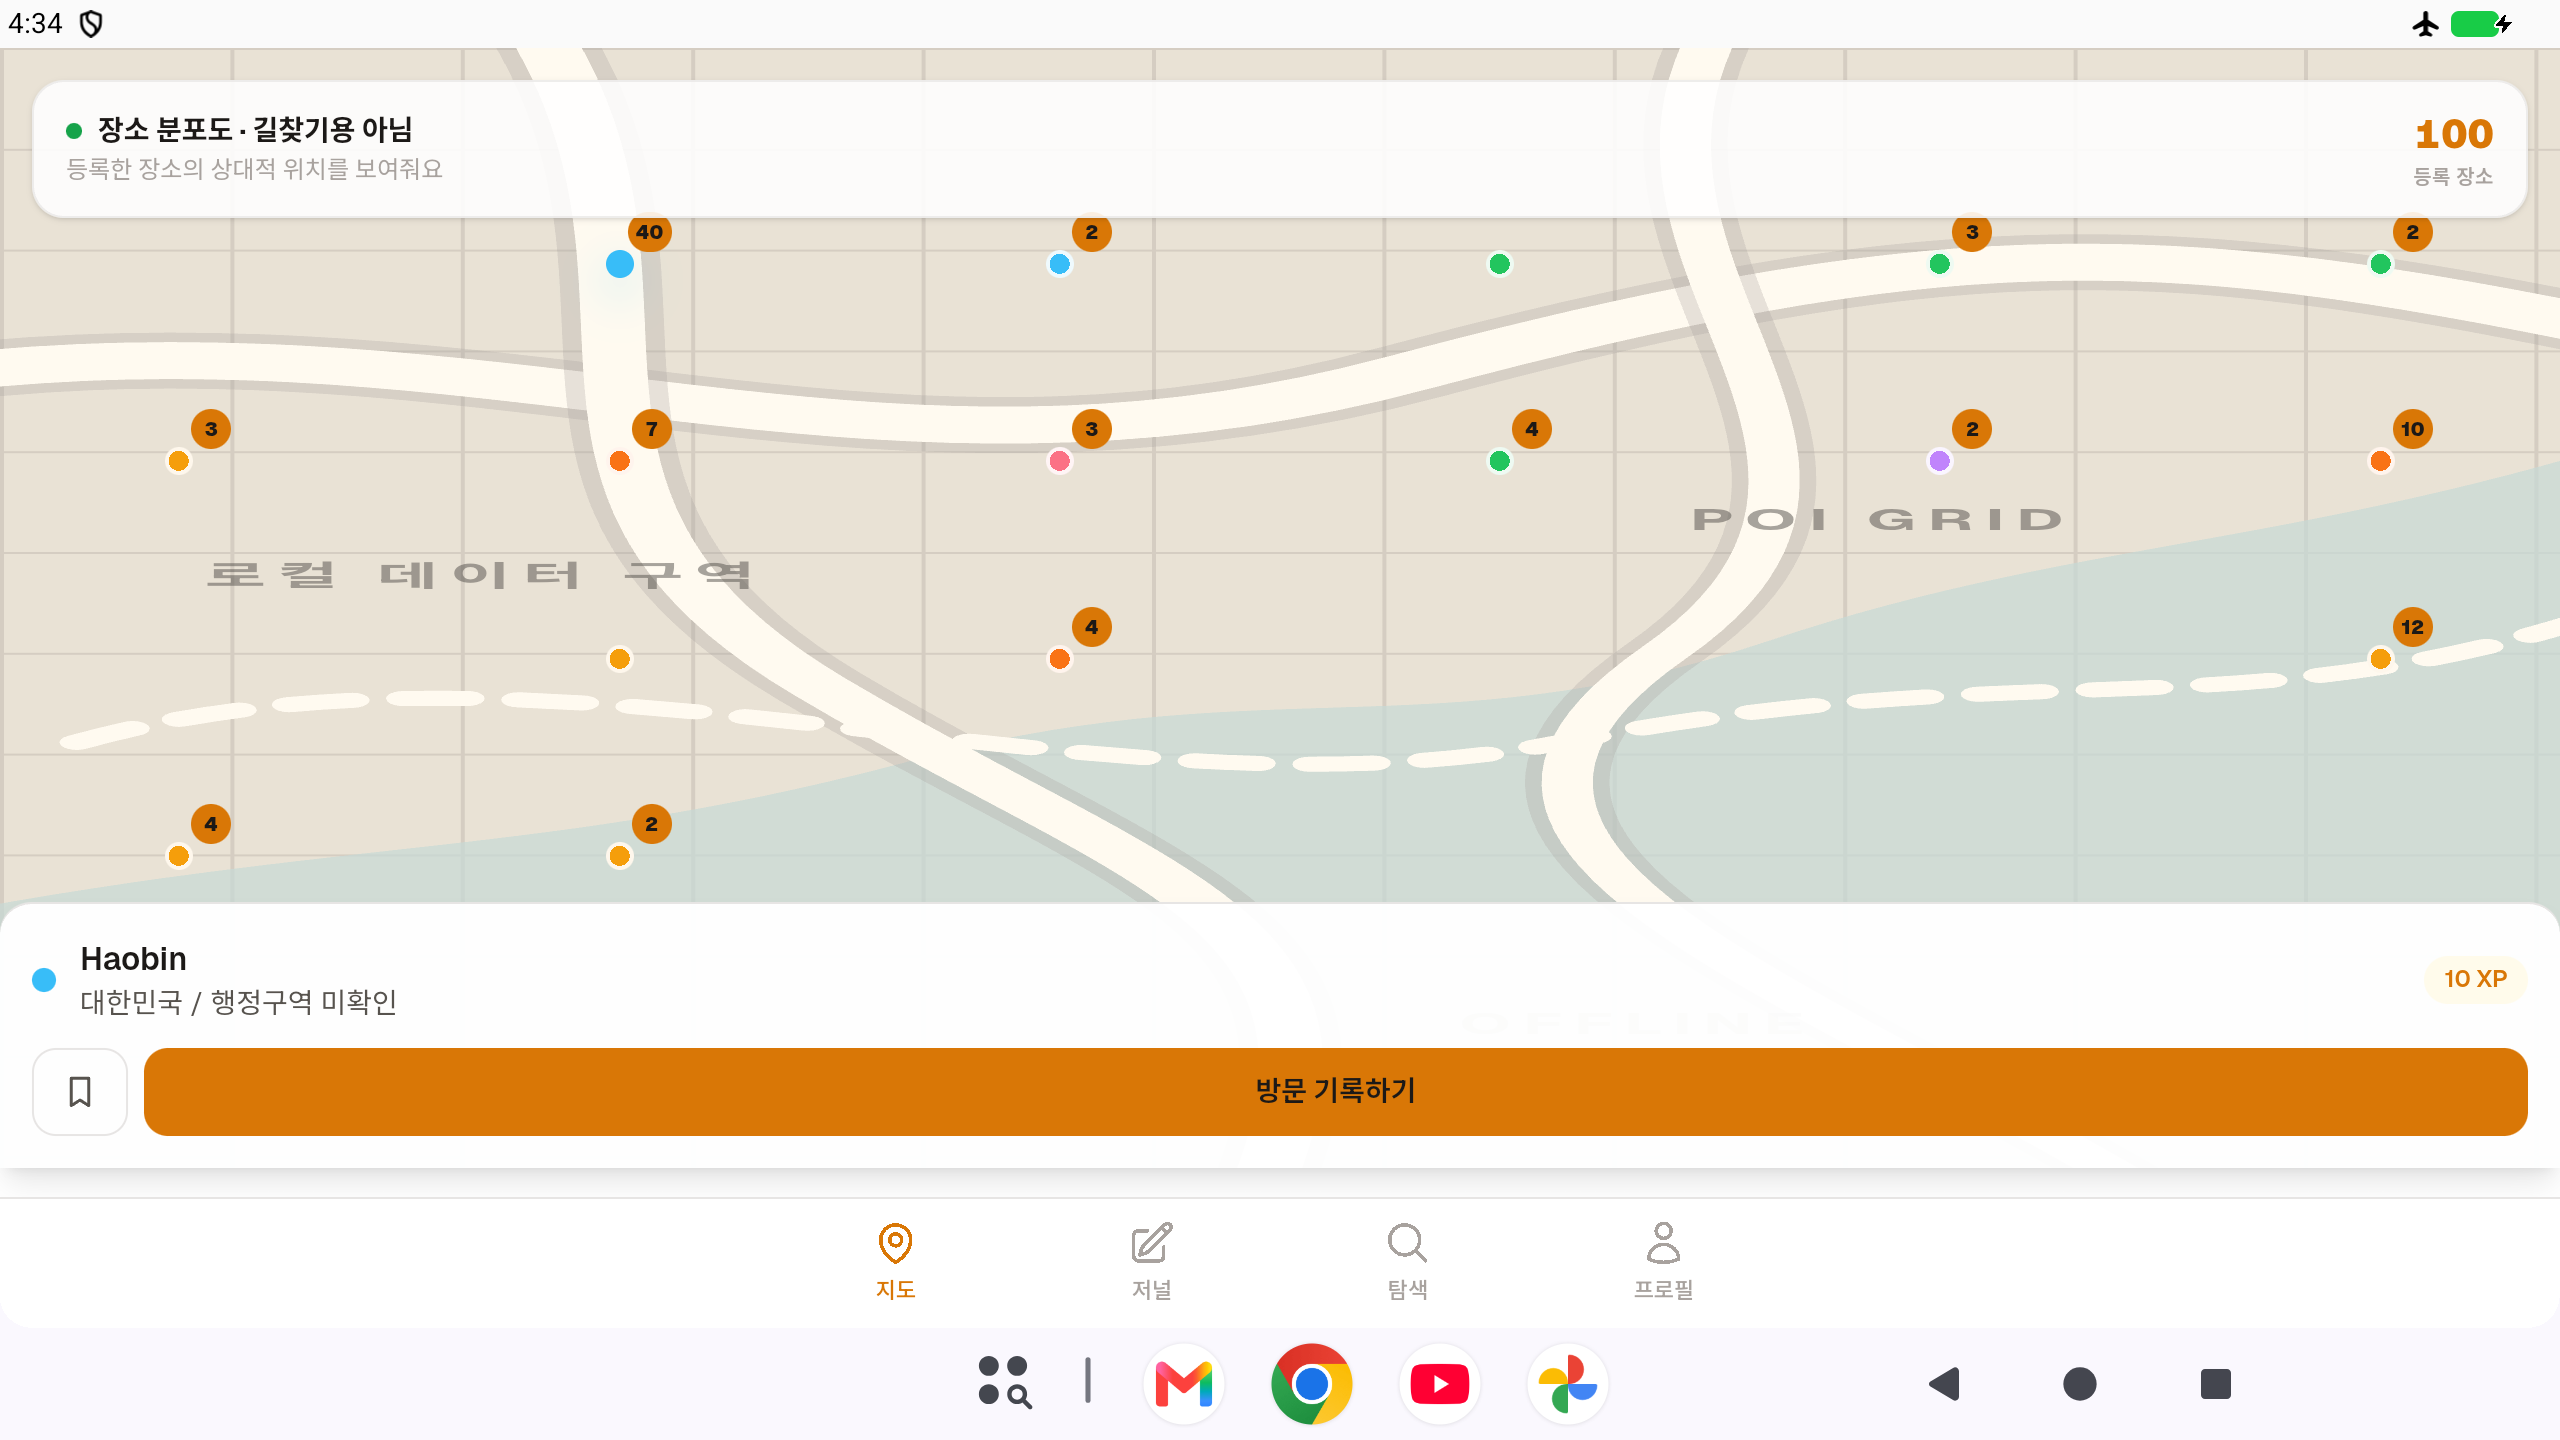
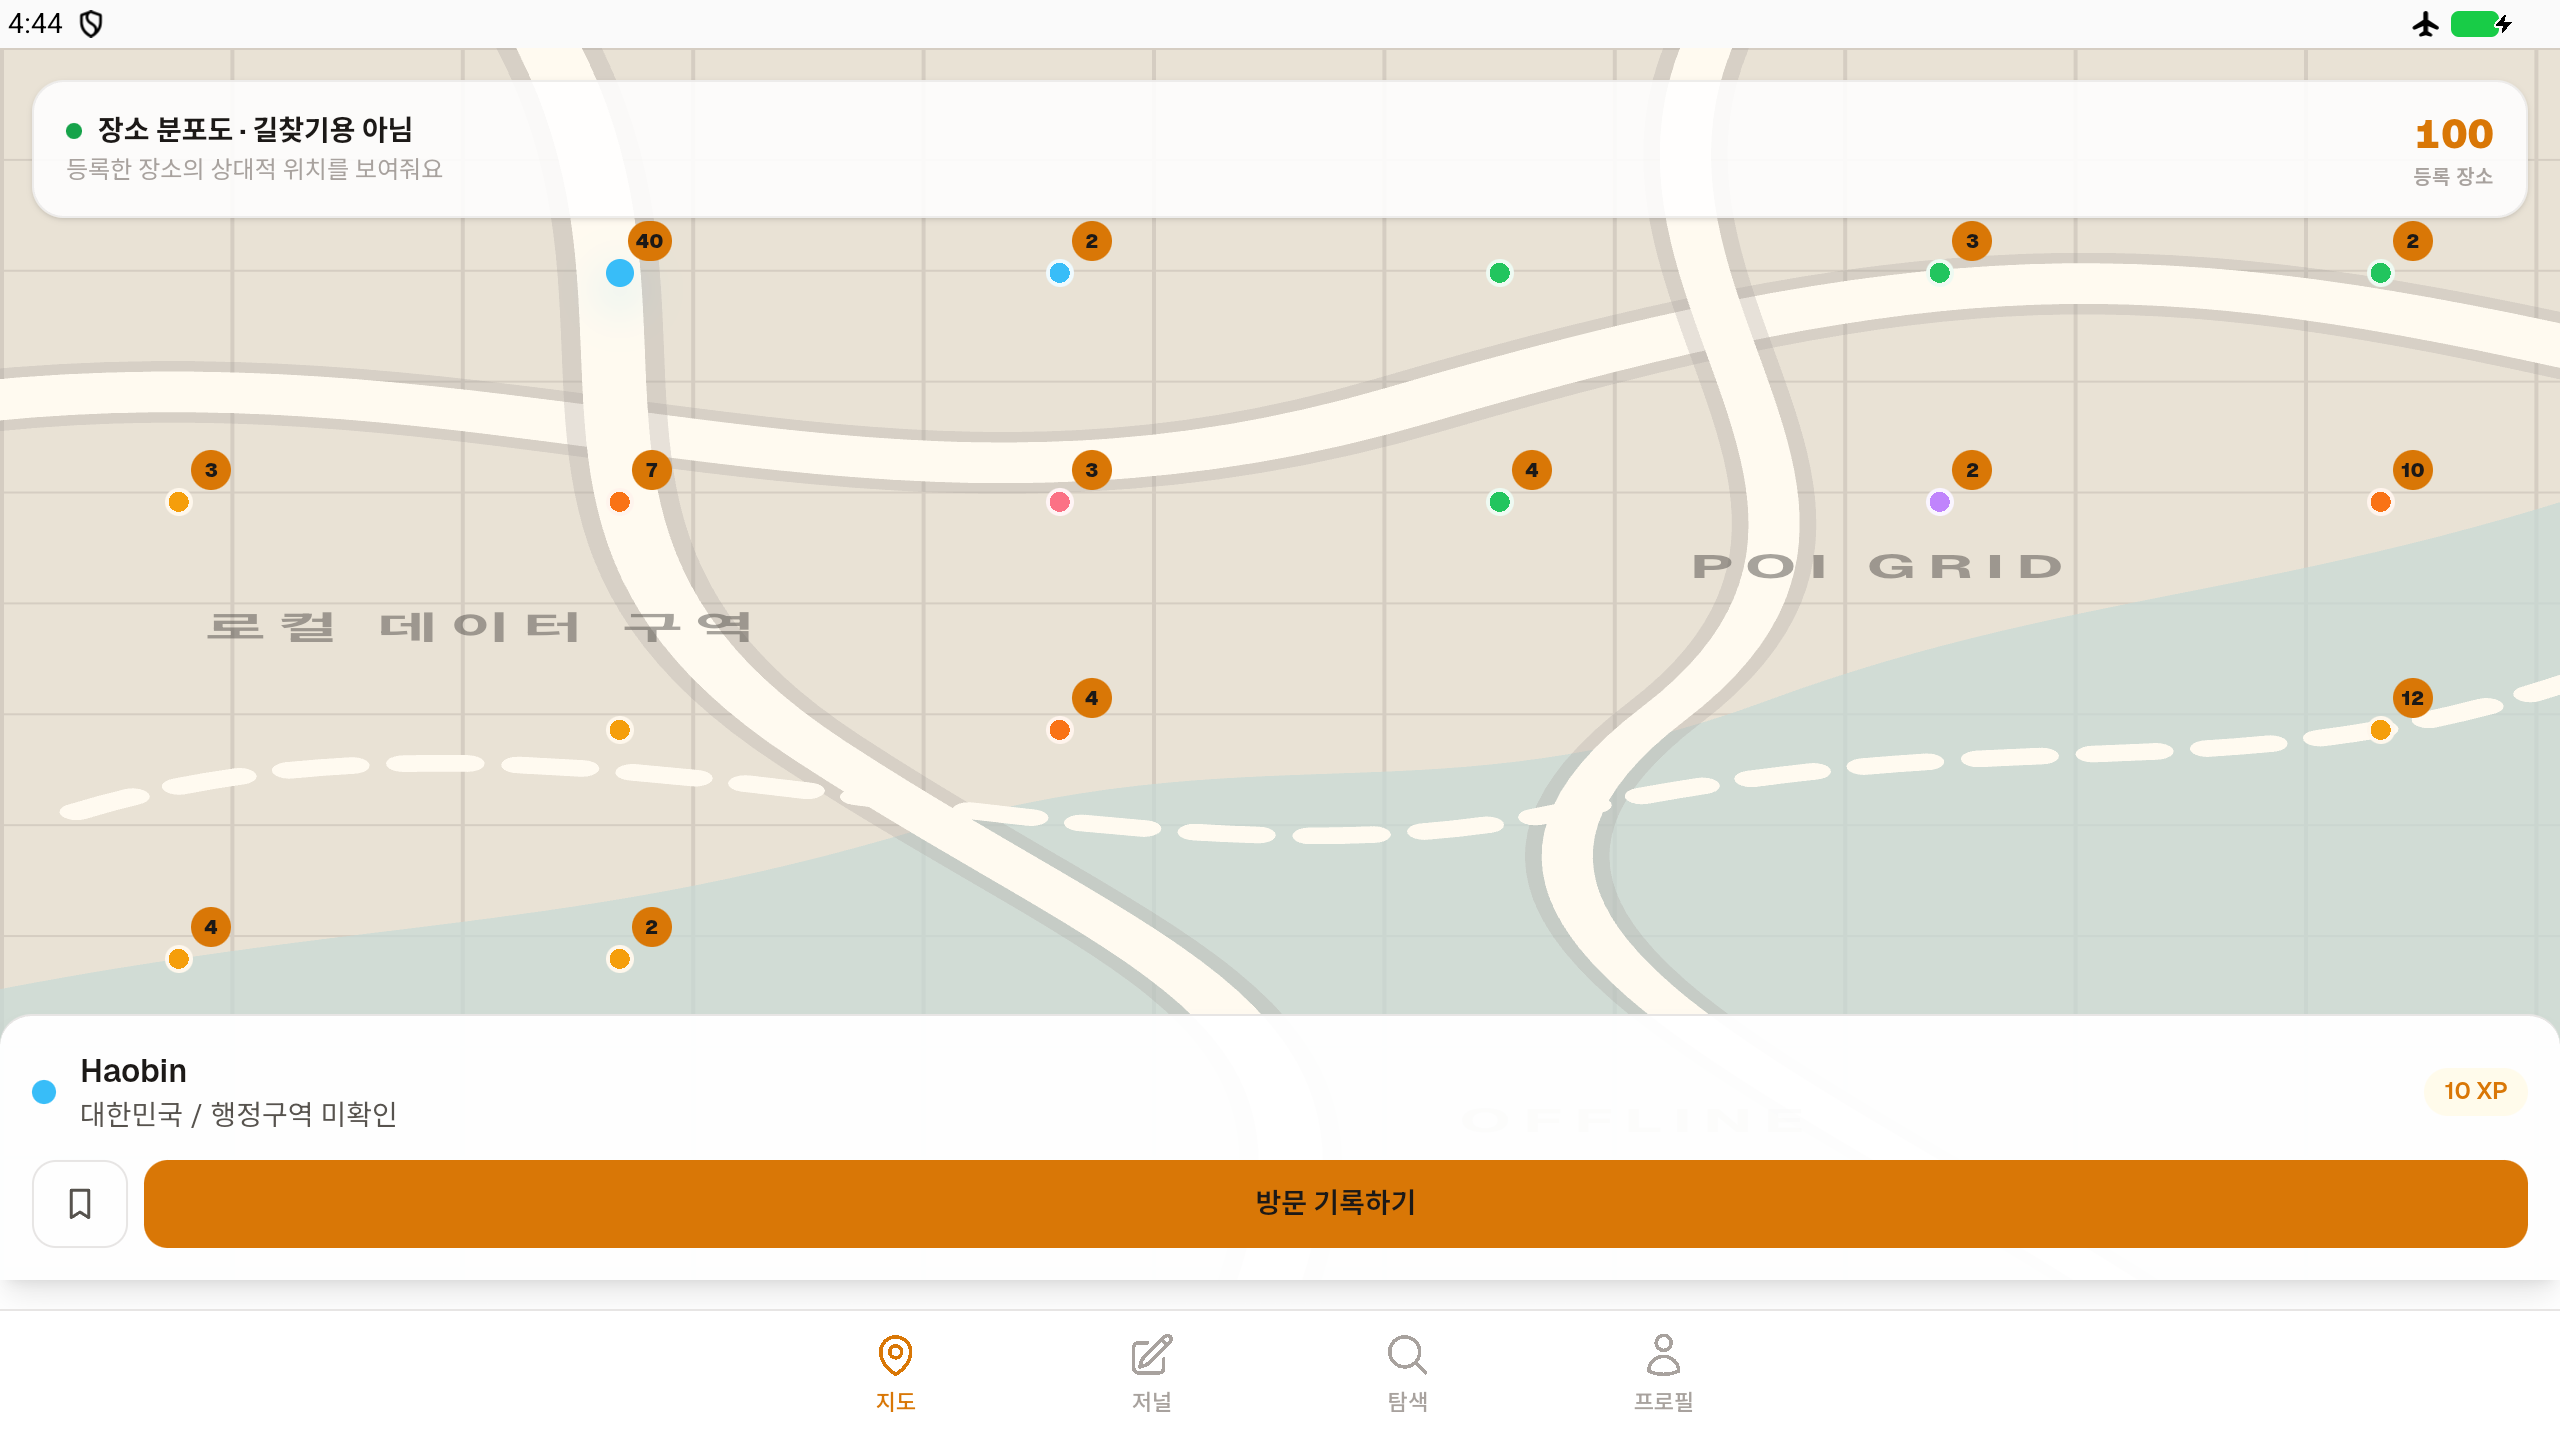
fix: recapture tablet release screenshot

diff --git a/docs/mobile/closed-test/evidence/report-0.3.0.md b/docs/mobile/closed-test/evidence/report-0.3.0.md
@@ -15,7 +15,7 @@ Candidate: `0.3.0` (`versionCode 6`)
 
 | Gate | Command or observation | Observed evidence | Status |
 |---|---|---|---|
-| Full unit test suite | `npm test` | 288 tests across 32 files passed, exit 0 | Passed |
+| Full unit test suite | `npm test` | 289 tests across 32 files passed, exit 0 | Passed |
 | Typecheck | `npx tsc --noEmit` | exit 0 | Passed |
 | Dependency audits | `npm audit --audit-level=high` and production audit | full 0 advisories; production 0 advisories | Passed |
 | Lint | `npm run lint` | exit 0 | Passed |
@@ -49,6 +49,7 @@ Normal `jarsigner` verification completed with exit 0 and reported the JAR verif
 - Runtime public-address rejection was also exercised with `https://8.8.8.8`: the app showed `공개 인터넷 주소는 사용할 수 없습니다.`, disabled Save and Connection test, and produced no fixture request. The loopback setting was then restored and re-saved.
 - The rebuilt final APK was installed again with `-r`; retained data remained intact and the Profile footer reported `Hello! My Paso! v0.3.0 · Local-First`.
 - Native photo staging was exercised with a repository-owned dummy icon through Android Photo Picker. The selected image appeared as `방문 사진 미리보기 1`, was removed before save, and the temporary emulator media file was deleted; no personal photo was used.
+- The tablet capture used a temporary emulator-only immersive policy and disabled Launcher taskbar source; both settings were restored after capture. The 2560 × 1440 PNG is uncropped and unscaled.
 - Sensitive-marker logcat scan: 0 matches. Error logcat scan: 0 errors.
 - HTTPS private-LAN end-to-end execution is not claimed. It requires a system-trusted certificate chain, exact IP SAN, and WebView CORS support.
 
@@ -56,7 +57,7 @@ Normal `jarsigner` verification completed with exit 0 and reported the JAR verif
 
 - AAB: `android/app/build/outputs/bundle/release/app-release.aab`
 - Release APK: `android/app/build/outputs/apk/release/app-release.apk`
-- Store screenshots: `docs/mobile/store-assets/screenshot-01-map.png` through `screenshot-05-tablet-landscape.png`
+- Store screenshots: `docs/mobile/store-assets/screenshot-01-map.png` through `screenshot-05-tablet-landscape.png`; the final tablet capture preserves 2560 × 1440 source resolution and has no Launcher taskbar.
 
 ## Remaining release gates
 
